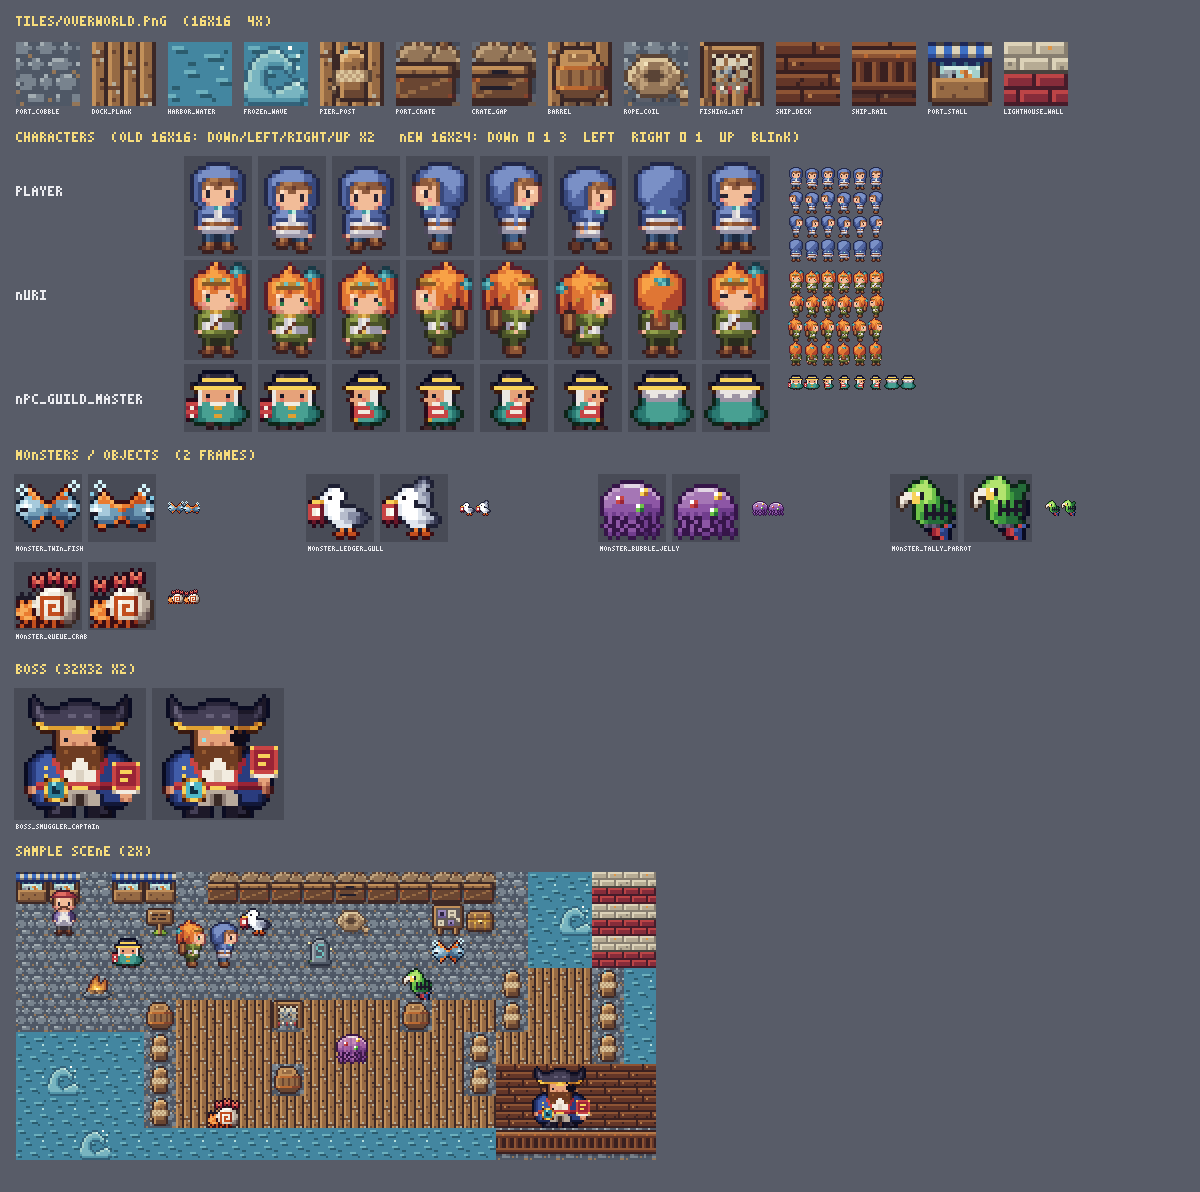
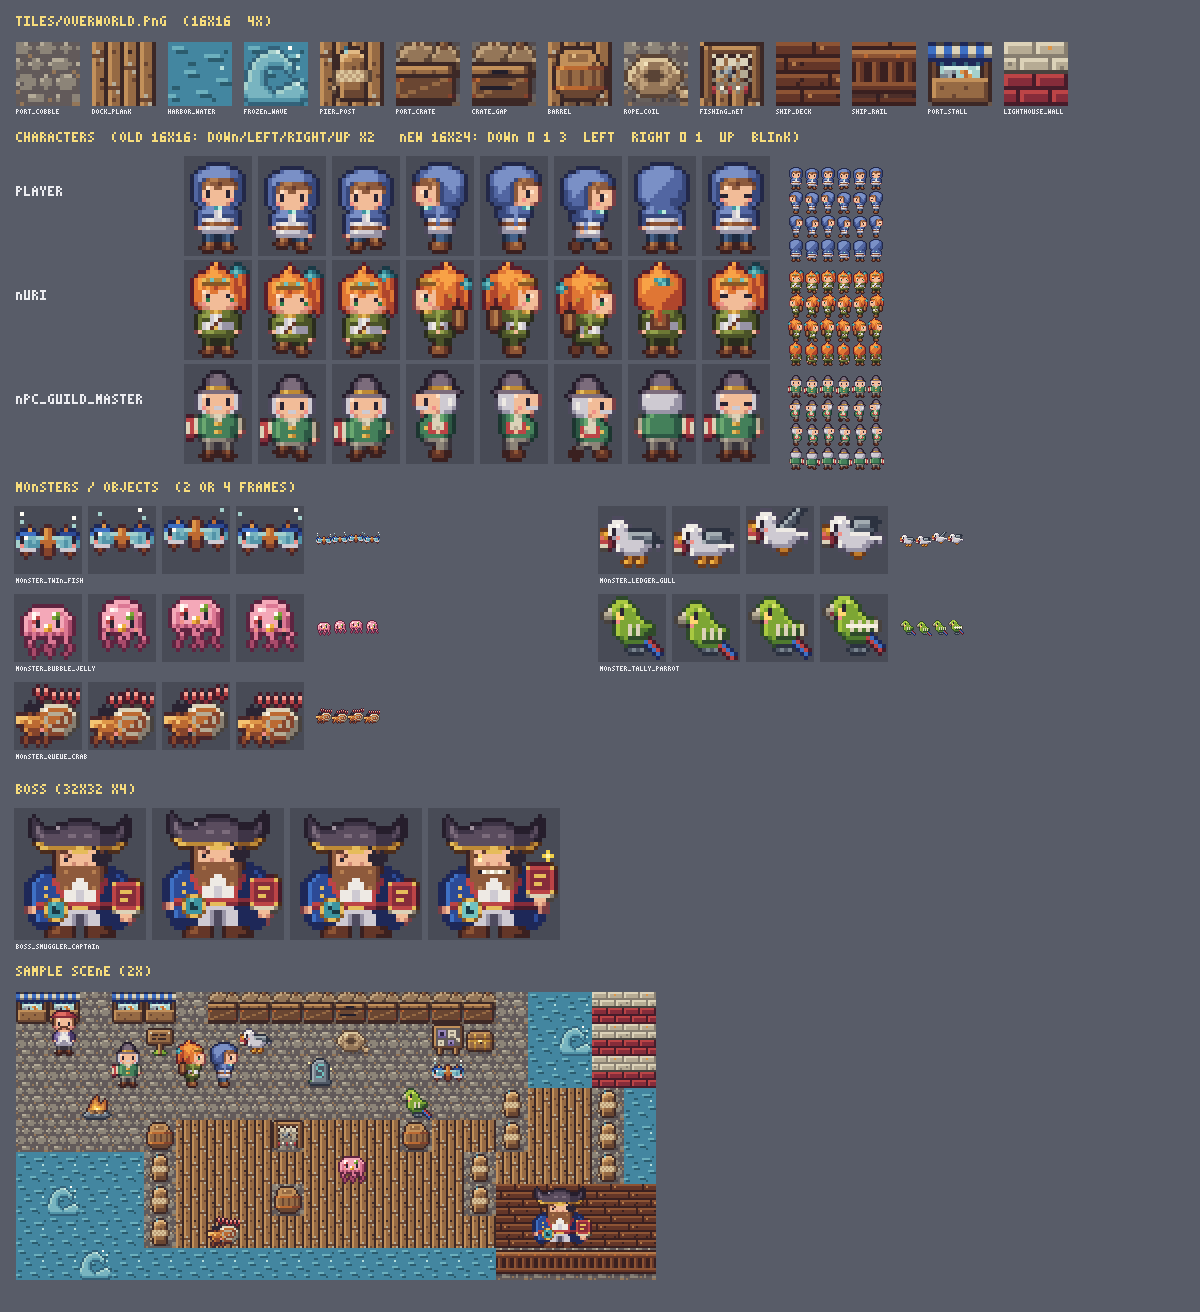
화풍 통일(지역 5): 자갈길 바닥을 청회 stone에서 따뜻한 회색 plank로(바다와 색상으로 갈리게)

Changed region(s): [[0.0, 0.0, 0.8942, 0.9933], [0.0308, 0.2794, 0.1233, 0.3414], [0.0, 0.2173, 0.0308, 0.2483]]

diff --git a/tools/art/port_tiles.py b/tools/art/port_tiles.py
@@ -2,9 +2,10 @@
 
 화풍 통일(docs/art-overhaul/style-guide.md §3·§4.4, 기준 구현 forest_tiles.py·tiles.py): 코지 팔레트(cozypal)의
 이름 있는 색만 쓴다. 지역 강조색은 blue(바다 파랑) · cloth_red(깃발 빨강) · rust(녹)이고 작은 장식에만 쓴다.
-- 바닥 색: 맵의 대부분을 덮는 자갈길(port_cobble)은 공통 stone(청회) 램프. 강조 램프 셋(blue·cloth_red·rust)은
-  base 채도가 높아 맵 전체 바닥으로 쓰면 강조색 15% 규칙을 넘는다(지역 7 sand와 같은 예외). 청회 돌은 따뜻한 나무
-  부두·상자와 색상으로 갈리고, 청록 바다(water 램프)보다 채도가 낮아 바다와 땅이 분명히 나뉜다.
+- 바닥 색: 맵의 절반 가까이를 덮는 자갈길(port_cobble)은 공통 plank(따뜻한 회색) 램프. 강조 램프 셋(blue·cloth_red·rust)은
+  base 채도가 높아 맵 전체 바닥으로 쓰면 강조색 15% 규칙을 넘는다(지역 7 sand와 같은 예외). 청회 stone도 그려 봤지만
+  청록 바다(water)와 색상이 겹쳐 항구 전체가 차갑고 땅과 바다가 명도로만 갈렸다. 햇볕에 바랜 따뜻한 회색 돌은 바다와
+  색상으로 갈리고, 나무 상자·부두와 어울리면서 명도(상자 앞판은 그늘)로 구분된다(지역 1 광장도 plank·cream).
 - 바닥(port_cobble, dock_plank, harbor_water, frozen_wave, ship_deck, lighthouse_wall)은 맵의 ground 레이어라
   불투명하고 가장자리가 이어진다(무늬는 x % 16, y % 16). 외곽선 없이 줄눈·이음새만 재질의 ol·shade로.
   부두 널(wood)은 세로, 밀수선 갑판(leather, 짙은 붉은 나무)은 가로로 놓여 둘이 섞여도 구별된다.
@@ -76,8 +77,11 @@ k#llllll#mmm#nnk
 """
 
 
+FLOOR = "plank"
+
+
 def port_cobble(seed=511):
-    """항구 자갈길: 청회 돌(stone.base) + 왼쪽·위 가장자리 밝음, 모서리를 깎은 줄눈(stone.shade).
+    """항구 자갈길: 바랜 회색 돌(plank.base) + 윗가장자리 밝음, 모서리를 깎은 줄눈(plank.shade).
     줄눈에 따뜻한 모래알(sand.shade)이 드문드문 끼고, 돌 위에 닳은 얼룩. 맵의 절반 가까이를 덮어서 대비를 낮게
     (spec 없음, 아래·오른쪽 그늘 가장자리 없이 줄눈이 그늘 역할)."""
     rows = _COBBLE_LAYOUT.strip().splitlines()
@@ -85,7 +89,7 @@ def port_cobble(seed=511):
     def at(x, y):
         return rows[y % T][x % T]
 
-    mortar, base, hi = c("stone.shade"), c("stone.base"), c("stone.hi")
+    mortar, base, hi = c(f"{FLOOR}.shade"), c(f"{FLOOR}.base"), c(f"{FLOOR}.hi")
     out = []
     for y in range(T):
         row = ""
@@ -101,7 +105,7 @@ def port_cobble(seed=511):
             else:
                 row += base
         out.append(row)
-    out = speckle(out, "stone.base", "stone.shade", 0.025, seed + 2)
+    out = speckle(out, f"{FLOOR}.base", f"{FLOOR}.shade", 0.025, seed + 2)
     g = [list(r) for r in out]
     for y in range(T):                                                  # 줄눈에 낀 모래알
         for x in range(T):
